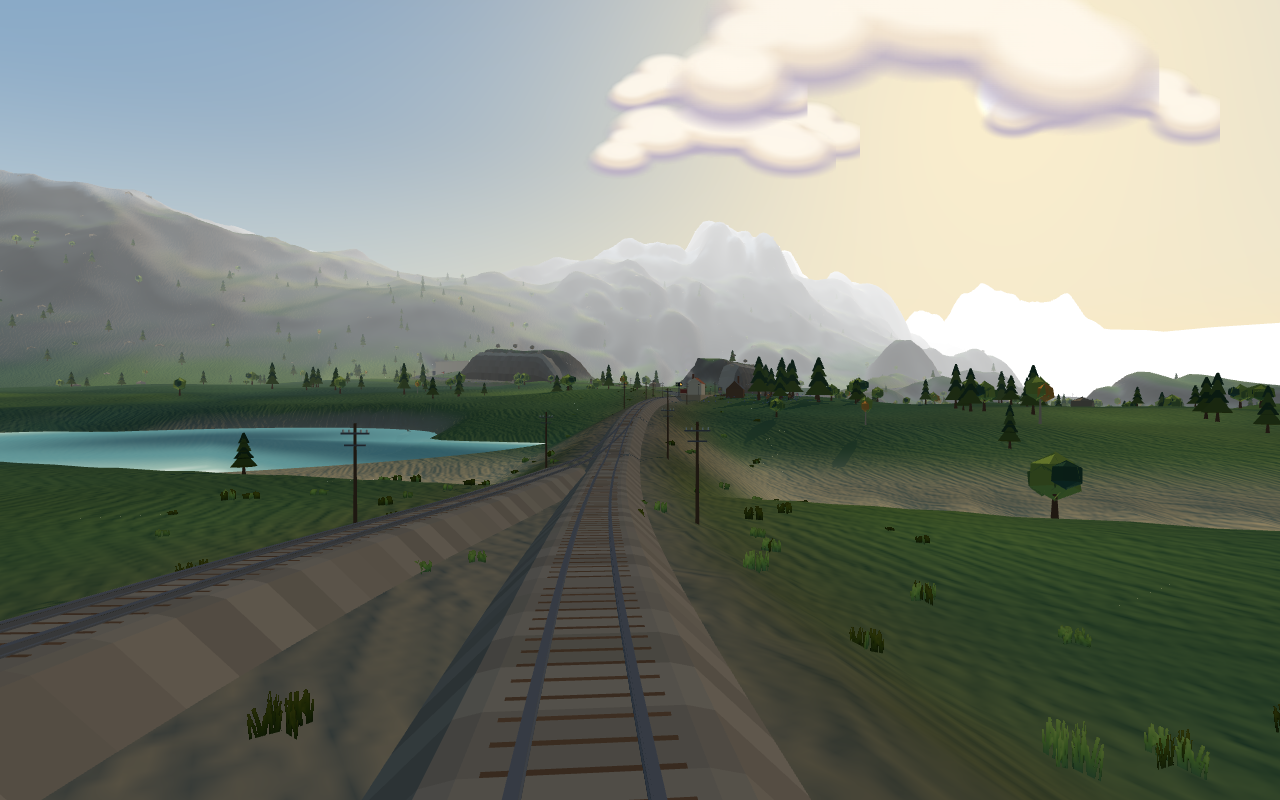
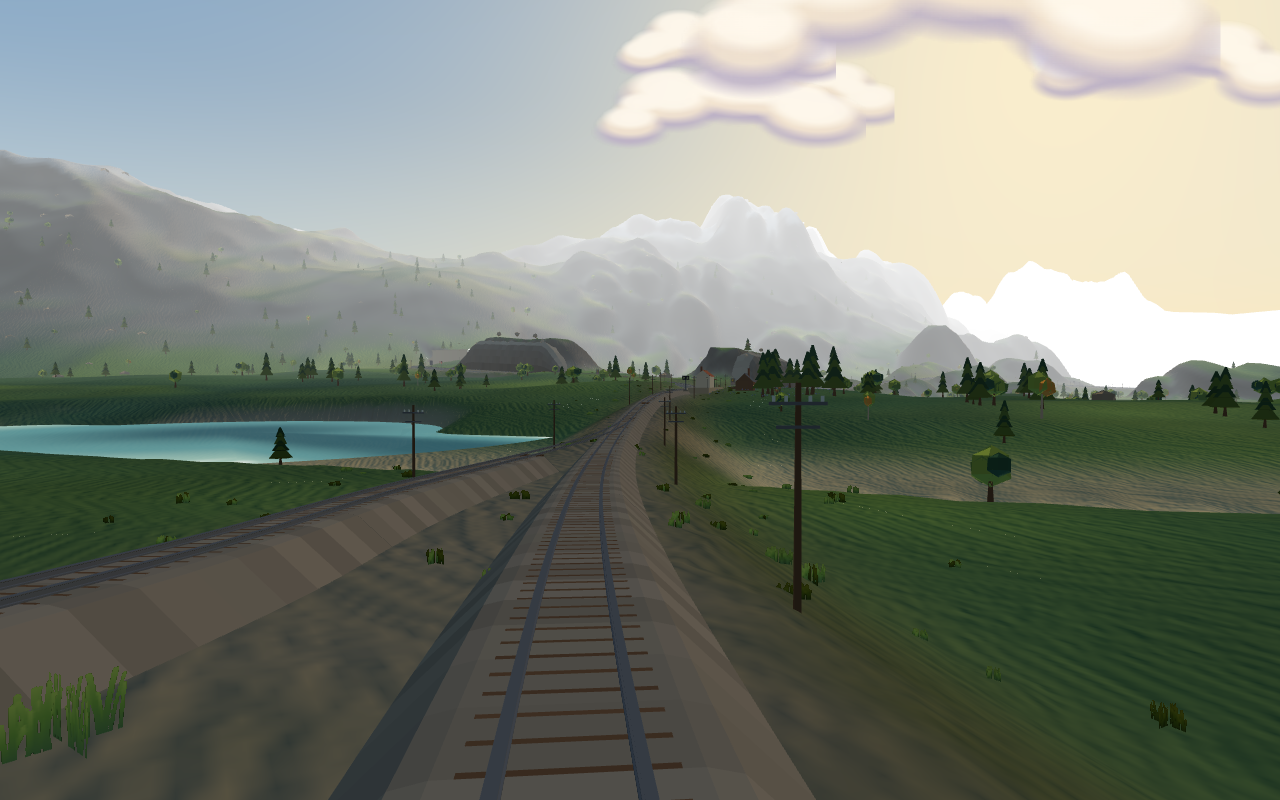
Vertical curves: no kink where a branch leaves the main line's profile
Pinning the branch to the main line through the turnout left a step in the
gradient where the pins ended: the grade limiter caps slope but not the rate
slope changes, so flat-to-five-percent happened in one sample and the rails
humped. A second limiter now caps the second difference of every profile to a
vertical curve of at least 700 m (900 m on the loop), relaxing around pinned
samples, and has the last word after the platforms and pins are placed. The
pinned heights are read at the branch's projection onto the loop as a
continuous arc-length rather than at the nearest sample, which on the outside
of a bend stepped by the loop's grade times the skipped samples. The self-check
now reports the minimum vertical radius: 204 m, up from 36 m.

Ballast is built per run of own-trackbed samples rather than per 60 m chunk,
so it no longer starts as a slab in mid-air where a branch leaves the shared
bed, or lies buried under the loop's for the rest of the chunk.

diff --git a/index.html b/index.html
@@ -3617,10 +3617,12 @@ class Track {
     for (const b of this.branches) {
       b.shared = new Uint8Array(b.pts.length);
       b.sharedMain = new Int32Array(b.pts.length).fill(-1);
+      b.sharedS = new Float64Array(b.pts.length);
+      const mn = main.pts.length;
       for (let i = 0; i < b.pts.length; i++) {
         const q = b.pts[i];
         let best = 1e18, bj = -1;
-        for (let j = 0; j < main.pts.length; j++) {
+        for (let j = 0; j < mn; j++) {
           const p = main.pts[j];
           const dx = p.x - q.x, dz = p.z - q.z;
           const d2 = dx * dx + dz * dz;
@@ -3628,7 +3630,20 @@ class Track {
         }
         const dd = Math.sqrt(best);
         b.shared[i] = dd < 7.5 ? 1 : 0;                 // one trackbed for both
-        if (dd < 14.5) b.sharedMain[i] = bj;            // and one height, out to the parallel run
+        if (dd < 14.5) {
+          b.sharedMain[i] = bj;                          // and one height, out to the parallel run
+          /* the height is read at the PROJECTION onto the loop, as a continuous
+             arc-length, not at the nearest sample: on the outside of a bend the
+             branch is longer than the loop, consecutive samples skip loop
+             samples, and the nearest-sample height steps by the loop's grade
+             times the skip — a kink a train could feel */
+          const p = main.pts[bj], p2 = main.pts[(bj + 1) % mn], p0 = main.pts[(bj + mn - 1) % mn];
+          const proj = (a, c) => { const ex = c.x - a.x, ez = c.z - a.z, l2 = ex * ex + ez * ez || 1; return clamp(((q.x - a.x) * ex + (q.z - a.z) * ez) / l2, 0, 1); };
+          const uF = proj(p, p2), uB = proj(p0, p);
+          const dF = Math.hypot(q.x - lerp(p.x, p2.x, uF), q.z - lerp(p.z, p2.z, uF));
+          const dB = Math.hypot(q.x - lerp(p0.x, p.x, uB), q.z - lerp(p0.z, p.z, uB));
+          b.sharedS[i] = dF <= dB ? (bj + uF) * main.step : (bj - 1 + uB) * main.step;
+        }
       }
 
 
@@ -3674,6 +3689,43 @@ class Track {
      mean and has no preferred direction, so the loop closes on itself. Coarse
      strides run first so a correction can travel a kilometre in a few passes
      rather than crawling one sample at a time. */
+  /* The vertical equivalent of the radius rule. Limiting the gradient alone
+     still lets it change all at once — flat to five per cent in a single
+     sample — which is a kink a train would pitch over. This caps the rate the
+     gradient changes, i.e. the second difference, to a vertical curve of
+     radius Rv, relaxing symmetrically like the grade limiter and leaving
+     pinned samples where they are. */
+  _limitVertCurve(arr, closed, step, Rv, mask) {
+    const n = arr.length;
+    if (n < 5) return;
+    const at = i => (closed ? mod(i, n) : i);
+    const fixed = k => mask && mask[k] === 1;
+    for (let stride = 64; stride >= 1; stride >>= 1) {
+      const lim = (stride * step) * (stride * step) / Rv;
+      for (let pass = 0; pass < 80; pass++) {
+        let worst = 0;
+        for (let k = 0; k < n; k++) {
+          if (!closed && (k - stride < 0 || k + stride >= n)) continue;
+          const a = at(k - stride), b = at(k), c = at(k + stride);
+          const d2 = arr[a] - 2 * arr[b] + arr[c];
+          const ex = Math.abs(d2) - lim;
+          if (ex <= 0) continue;
+          const e = Math.sign(d2) * ex;
+          // move the middle toward the chord and the ends away, mean preserved,
+          // with a fixed sample's share handed to the others
+          const fa = fixed(a), fb = fixed(b), fc = fixed(c);
+          if (fb) { if (!fa && !fc) { arr[a] -= e * 0.5; arr[c] -= e * 0.5; } else if (!fa) arr[a] -= e; else if (!fc) arr[c] -= e; else continue; }
+          else if (fa && fc) arr[b] += e * 0.5;
+          else if (fa) { arr[b] += e * 0.5 * 0.8; arr[c] -= e * 0.5 * 0.8; }
+          else if (fc) { arr[b] += e * 0.5 * 0.8; arr[a] -= e * 0.5 * 0.8; }
+          else { arr[b] += e * 0.5; arr[a] -= e * 0.25; arr[c] -= e * 0.25; }
+          if (ex > worst) worst = ex;
+        }
+        if (worst < 1e-4) break;
+      }
+    }
+  }
+
   _limitGrade(arr, closed, step, maxGrade, pinEnds, mask) {
     const n = arr.length;
     if (n < 4) return;
@@ -3718,6 +3770,8 @@ class Track {
     this._levelAtStations(h, m);
     this._limitGrade(h, true, m.step, 0.044);
     this._levelAtStations(h, m);
+    this._limitGrade(h, true, m.step, 0.046);
+    this._limitVertCurve(h, true, m.step, 900);
     for (let i = 0; i < h.length; i++) m.pts[i].y = h[i] + 0.55;
 
     const mainYAt = s => {
@@ -3744,7 +3798,7 @@ class Track {
       const matchShared = () => {
         for (let i = 0; i < bh.length; i++) {
           if (b.sharedMain[i] < 0) continue;
-          bh[i] = m.pts[b.sharedMain[i]].y - 0.55;
+          bh[i] = mainYAt(b.sharedS[i]) - 0.55;
           mask[i] = 1;
         }
         bh[0] = mainYAt(b.s0) - 0.55; bh[bh.length - 1] = mainYAt(b.s1) - 0.55;
@@ -3760,9 +3814,18 @@ class Track {
         matchShared(); pinCrossings();
         this._levelAtStations(bh, b);
         this._limitGrade(bh, false, b.step, 0.052, false, mask);
+        this._limitVertCurve(bh, false, b.step, 700, mask);
       }
       matchShared(); pinCrossings();
+      this._limitGrade(bh, false, b.step, 0.052, false, mask);
+      this._limitVertCurve(bh, false, b.step, 700, mask);
+      matchShared(); pinCrossings();
       this._levelAtStations(bh, b);
+      matchShared(); pinCrossings();
+      // the last word goes to smoothness: platforms and pins are already in
+      // place, and this only bends what is between them
+      this._limitGrade(bh, false, b.step, 0.054, false, mask);
+      this._limitVertCurve(bh, false, b.step, 700, mask);
       matchShared(); pinCrossings();
       for (let i = 0; i < bh.length; i++) b.pts[i].y = bh[i] + 0.55;
 
@@ -4418,8 +4481,16 @@ class Track {
         const onBridge = seg.kind && seg.kind[c0] === -1;
 
         const shared = k => seg.shared && seg.shared[Math.min(k, n - 1)];
-        if (!onBridge && !shared(c0)) mb.extrude(path, ballast, hex('ballast'), false,
-          k => 0.86 + 0.28 * ((Math.sin(k * 2.7 + c0) * 0.5 + 0.5)));
+        if (!onBridge) {
+          // the branch gets its own trackbed only where it has left the main
+          // line's; run by run, so it neither starts as a slab in mid-air at
+          // a chunk boundary nor lies buried under the loop's for sixty metres
+          let run = [];
+          const flush = () => { if (run.length > 1) mb.extrude(run, ballast, hex('ballast'), true, k => 0.86 + 0.28 * ((Math.sin(k * 2.7 + c0) * 0.5 + 0.5))); run = []; };
+          for (let i = c0; i < c1; i++) { if (shared(i)) flush(); else run.push(seg.pts[i]); }
+          if (seg.closed && c1 === n && !shared(0)) run.push(seg.pts[0]);
+          flush();
+        }
         mb.extrude(path, railL, hex('steel'), false);
         mb.extrude(path, railR, hex('steel'), false);
 
@@ -4767,6 +4838,15 @@ class Track {
       if (dy > step) { step = dy; stepAt = { line: b.id, s: Math.round(i * b.step) }; }
     }
     report.maxTurnoutStep = +step.toFixed(2); report.turnoutStepAt = stepAt;
+    let kink = 0, kinkAt = null;
+    for (const seg of [this.segs.main, ...this.branches]) {
+      const p = seg.pts, n = p.length;
+      for (let i = 2; i < n - 2; i++) {
+        const d2 = Math.abs(p[i - 2].y - 2 * p[i].y + p[i + 2].y) / (2 * seg.step * 2 * seg.step);
+        if (d2 > kink) { kink = d2; kinkAt = { line: seg.id, s: Math.round(i * seg.step) }; }
+      }
+    }
+    report.minVerticalRadius = Math.round(1 / Math.max(1e-9, kink)); report.verticalRadiusAt = kinkAt;
 
     this.railReport = report;
     if (report.buriedM > 0 || minR < R_MIN - 1 || step > 0.05)

diff --git a/README.md b/README.md
@@ -12,8 +12,9 @@ under the crags there are DANGER boards, and rocks that come down.
 
 Every line is laid to railway rules: arcs of at least 65 m radius joined by straights and
 reverse curves, a speed limit on every bend, both rails of every branch level with the main line
-through the whole turnout, and a self-check at boot that measures every rail head against the
-ground as drawn and refuses to stay quiet if any is buried.
+through the whole turnout, vertical curves of at least 200 m radius so no gradient ever changes in
+a kink, and a self-check at boot that measures every rail head against the ground as drawn and
+refuses to stay quiet if any is buried.
 
 **Play online:** https://developmentation.github.io/sable-train-game/
 
